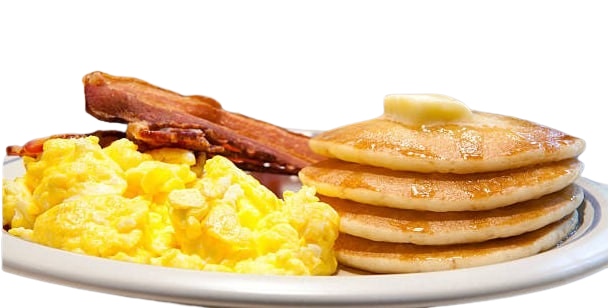
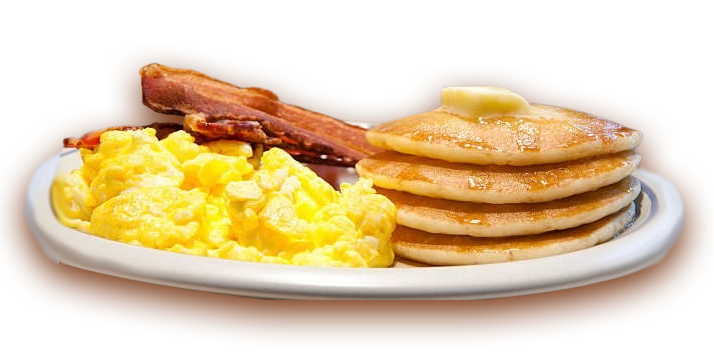
Update Photo and remove button

diff --git a/assets/css/style.css b/assets/css/style.css
@@ -125,9 +125,9 @@ body{
 }
 
 .dish-img img {
-    /* -webkit-transform: scale(1.2);
+    -webkit-transform: scale(1.2);
         -ms-transform: scale(1.2);
-            transform: scale(1.2); */
+            transform: scale(1.2);
     /* margin-left: -30px; */
 }
 
@@ -256,10 +256,10 @@ a.social-icon i {
         line-height: 68px;
     }
     .dish-img img {
-        /* -webkit-transform: scale(1.1);
+        -webkit-transform: scale(1.1);
             -ms-transform: scale(1.1);
                 transform: scale(1.1);
-        margin-left: -30px; */
+        margin-left: -30px;
     }
     .dish_name_details h5, .dish_price {
         font-size: 20px;
@@ -300,10 +300,10 @@ a.social-icon i {
         line-height: 60px;
     }
     .dish-img img {
-        /* -webkit-transform: scale(1.1);
+        -webkit-transform: scale(1.1);
             -ms-transform: scale(1.1);
                 transform: scale(1.1);
-        margin-left: -30px; */
+        margin-left: -30px;
     }
     .dish_name_details h5, .dish_price {
         font-size: 20px;
@@ -355,10 +355,10 @@ a.social-icon i {
         line-height: 46px;
     }
     .dish-img img {
-        /* -webkit-transform: scale(1.1);
+        -webkit-transform: scale(1.1);
             -ms-transform: scale(1.1);
                 transform: scale(1.1);
-        margin-left: -30px; */
+        margin-left: -30px;
     }
     .dish_name_details h5, .dish_price {
         font-size: 20px;

diff --git a/index.html b/index.html
@@ -68,8 +68,8 @@
                     <div class="content_wrapper ms-0 mt-4 mt-lg-0 ms-lg-5 d-flex flex-column justify-content-between">
                         <h2>Experience Excellence & Flavorful Tradition</h2>
                         <p>Discover the essence of Fatimah's Fish & Chips. With a commitment to Halal excellence, we blend tradition with innovation to create a culinary experience like no other. From our carefully curated menu to our warm hospitality, every aspect reflects our dedication to quality and authenticity. Join us and savor the taste of tradition at Fatimah's Fish & Chips."</p>
-                        <a class="btn menu-btn mt-3 mt-lg-0" href="#menu">CHECK OUR MENU</a>
-                        <a class="btn menu-btn btn-yellow mt-4 d-flex d-lg-none" href="tel:+(838)910-8887">CALL & ORDER</a>
+                        <a class="btn menu-btn mt-3 mt-lg-0 d-none d-lg-flex" href="#menu">CHECK OUR MENU</a>
+                        <!-- <a class="btn menu-btn btn-yellow mt-4 d-flex d-lg-none" href="tel:+(838)910-8887">CALL & ORDER</a> -->
                     </div>
                 </div>
             </div>
